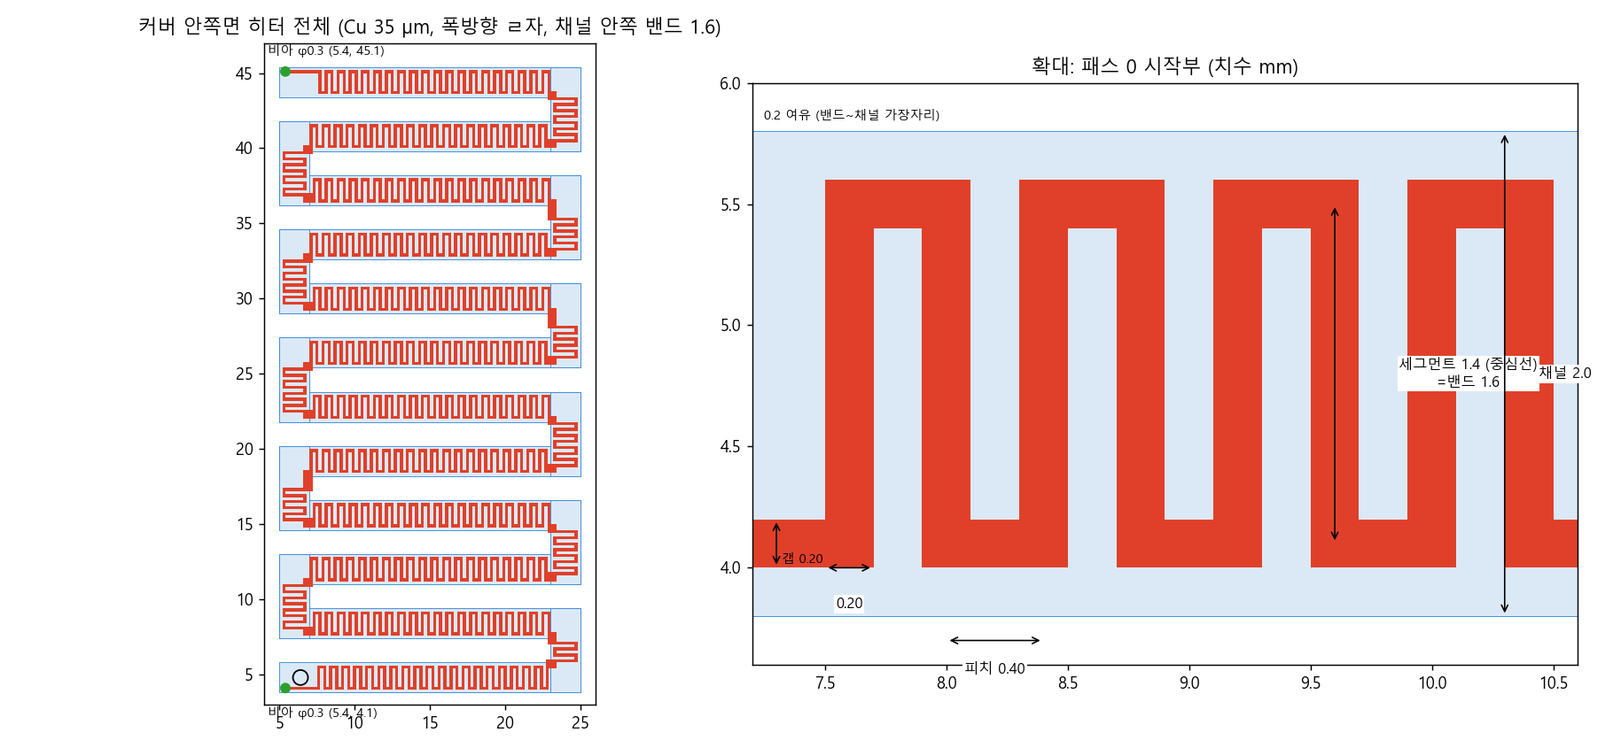
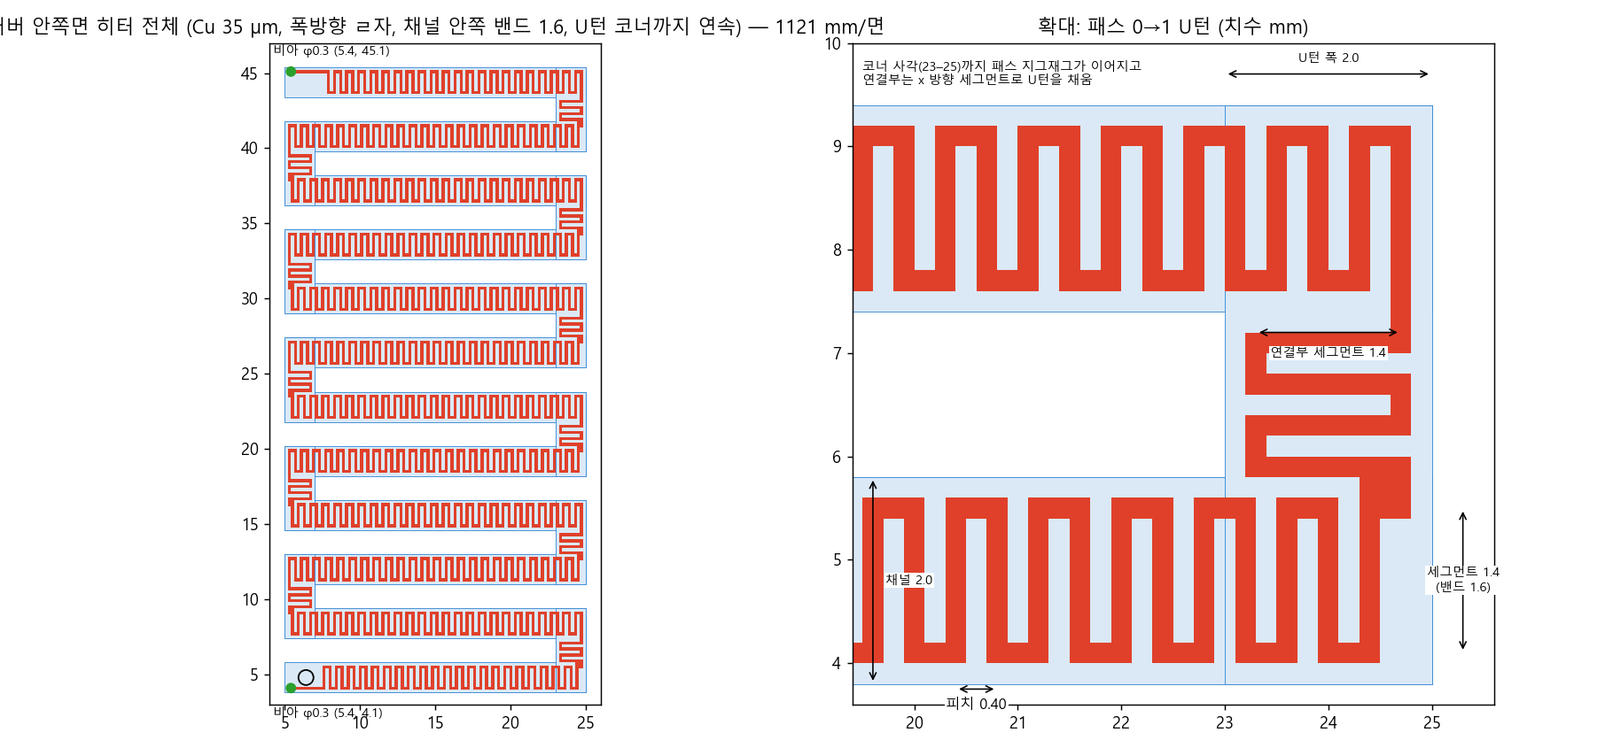
추력기: 히터 치수 그림 U턴 코너 채움 반영

diff --git a/public/metacube/thruster/index.html b/public/metacube/thruster/index.html
@@ -7,4 +7,4 @@ table{border-collapse:collapse;font-size:12.5px;background:#fff}th,td{border:1px
 .note{background:#fff6e8;border-left:4px solid #d98040;padding:9px 12px;font-size:13px;margin:12px 0;border-radius:0 4px 4px 0}.ok{background:#eef7ee;border-left:4px solid #3a8a3a}
 .vf{width:100%;height:760px;border:1px solid #cfd8ea;border-radius:4px;background:#fff}.two{display:grid;grid-template-columns:1fr 1fr;gap:12px}@media(max-width:900px){.two{grid-template-columns:1fr}}
 ul{font-size:13.5px}li{margin:3px 0}.dl a{display:inline-block;margin:3px 6px 3px 0;padding:4px 10px;border:1px solid #b9c6dc;border-radius:4px;background:#fff;color:#1F3864;text-decoration:none;font-size:12.5px}
-</style></head><body><div id="mcnav" style="position:sticky;top:0;z-index:9999;display:flex;gap:6px;align-items:center;background:#1F3864;padding:7px 14px;font-family:'Malgun Gothic',sans-serif"><span style="color:#fff;font-weight:700;font-size:13.5px;margin-right:8px">MetaCube</span><a href="/metacube/" style="color:#cfd8ea;border:1px solid #4a6293;border-radius:4px;padding:3px 12px;font-size:12.5px;text-decoration:none">전기체 3U CAD</a><a href="/metacube/barrel/" style="color:#cfd8ea;border:1px solid #4a6293;border-radius:4px;padding:3px 12px;font-size:12.5px;text-decoration:none">경통(카메라) 상세</a><a href="/metacube/thruster/" style="color:#1F3864;background:#fff;border-radius:4px;padding:3px 12px;font-size:12.5px;font-weight:700;text-decoration:none">추력기 (PCB 기화식)</a><a href="/metacube/downloads.html" style="color:#cfd8ea;border:1px solid #4a6293;border-radius:4px;padding:3px 12px;font-size:12.5px;text-decoration:none">STEP 다운로드</a><span style="margin-left:auto;display:flex;gap:10px;align-items:center;font-size:11.5px;color:#cfd8ea"><span>추력기 <b style="color:#fff">v0.4</b></span><span style="color:#9fb0d0">배포 2026-08-16 01:08 KST</span></span></div><div class="tabbar"><button id="tb-ov" onclick="showTab(&quot;ov&quot;)">개요</button><button id="tb-prop" onclick="showTab(&quot;prop&quot;)">추진제 선택</button><button id="tb-design" onclick="showTab(&quot;design&quot;)">설계·치수·3D</button><button id="tb-heater" onclick="showTab(&quot;heater&quot;)">히터·V→I·P·T</button><button id="tb-fea" onclick="showTab(&quot;fea&quot;)">3D 열해석</button><button id="tb-boil" onclick="showTab(&quot;boil&quot;)">채널 비등 지도</button><button id="tb-files" onclick="showTab(&quot;files&quot;)">EAGLE 파일</button><button id="tb-risk" onclick="showTab(&quot;risk&quot;)">미결·리스크</button></div><div class="wrap"><section class="tabpane on" id="sec-ov"><h1>PCB(FR-4) 냉매 기화식 마이크로추력기 — 설계·해석 종합</h1><p class="sub">R245fa 액체를 시린지펌프로 공급 → 다층 FR-4 ㄹ자 마이크로채널에서 Cu 35 μm 히터로 기화 → 노즐. 지상 시험 1 atm, 챔버 4.0 bar abs, 진공 환산 50 mN. 1차 = 단층(코어 1장) 실험체, 2차 = 같은 코어를 3층으로 접기. 갱신 2026-08-16 01:08 KST</p><div class="cards"><div class="card"><b>설계점</b><div class="n">50 mN · 25.6 W</div><p>진공 Isp 45.5 s(ε100) · ṁ 112 mg/s = 5.4 mL/min · 지상 Isp 24 s. 전력 = 현열 5.1 + 잠열 19.4 + 과열 1.1 W(+손실 1~2 W).</p></div><div class="card"><b>채널</b><div class="n">2.0 × 0.6 · 12패스 280 mm</div><p>코어 FR-4 0.6 관통슬롯(라우터 2.0), 리브 1.6, 보드 30×49.2. 벽 과열도 7.6 K · CHF 여유 15× · ΔP 3 kPa (길이 2× 보수).</p></div><div class="card"><b>히터</b><div class="n">ㄹ자 0.20/0.20 · 16.9 Ω</div><p>Cu 35 μm 폭방향 미앤더, 밴드 1.6(채널 안쪽), 면당 1121 mm 8.5 Ω, 전 면 직렬 하나(U턴 코너까지 연속). 30 W @ 24 V·1.2 A(파워서플라이 0~30 V), 건식 ≤10 V.</p></div><div class="card"><b>조립</b><div class="n">SMT 리플로우</div><p>솔더 랜드 1.0(리브 위+프레임), 부품 2종(코어 1 + 커버 2 동일, 뒤집어 사용), 리드 = 밀봉 안쪽 비아(솔더 충전, 가안), 정렬홀 φ2×3, 센서포트 9점.</p></div></div><div class="note ok"><b>탭으로 나눠 놓았습니다</b> — 위 탭을 누르면 해당 내용만 표시됩니다: 추진제 선택(56종 스크리닝) → 설계·치수·3D(단층/3층/커버 뷰어, EAGLE 미리보기) → 히터·V→I·P·T(예측표) → 3D 열해석(TH2·TH3) → 채널 비등 지도(정상·과도·애니메이션) → EAGLE 파일 → 미결·리스크. 주소에 #탭이름을 붙여 바로 열 수 있습니다(예: #boil).</div></section><section class="tabpane" id="sec-prop"><h2>1. 추진제 선택 (56종 스크리닝)</h2><p class="sub">챔버 4.0 bar · 과열 10 K · ε100 · η0.93 · 물성 CoolProp 7.2. 깔때기: 시린지펌프·저압탱크(20 °C 증기압 ≤ 1.5 bar) → PCB 온도 한계 65 °C에서 챔버 압력(MEOP) ≥ 3 bar → 불연 → 5종 → 규제(R11 CFC·R123 HCFC) 제외 → 3종 → ρ·Isp 1위 R245fa. 색 = 가연성, 모양 = 독성(○ A / ◇ B).</p><figure><img src="/metacube/thruster/img/propellant_selection.png" alt="propellant selection"><figcaption>① 저장 압력 vs ρ·Isp · ② ρ·Isp 순위(★ 창 안) · ③ 실현 창(저장압 × 65 °C MEOP) · ④ 전력/추력 vs ρ·Isp</figcaption></figure><h3>창 안 후보</h3><div class="tw"><table><tr><th>추진제</th><th>P_sat 20 °C [bar]</th><th>P_sat 65 °C = MEOP [bar]</th><th>ρ 20 °C</th><th>T_sat 4 bar [°C]</th><th>Isp 진공 [s]</th><th>ρ·Isp [g·s/cm³]</th><th>W/mN</th><th>50 mN 전력 [W]</th><th>ASHRAE 34</th><th>GWP</th></tr><tr><td>R11</td><td>0.89</td><td>3.6</td><td>1488</td><td>69.2</td><td>43.0</td><td>63.9</td><td>0.51</td><td>25</td><td>A1</td><td>4660</td></tr><tr><td>R123</td><td>0.76</td><td>3.3</td><td>1477</td><td>72.2</td><td>42.1</td><td>62.2</td><td>0.51</td><td>26</td><td>B1</td><td>77</td></tr><tr><td>R245fa</td><td>1.23</td><td>5.3</td><td>1352</td><td>55.0</td><td>44.3</td><td>59.9</td><td>0.53</td><td>26</td><td>B1</td><td>858</td></tr><tr><td>R1234ze(Z)</td><td>1.49</td><td>5.9</td><td>1238</td><td>50.8</td><td>46.6</td><td>57.6</td><td>0.52</td><td>26</td><td>A2L</td><td>1</td></tr><tr><td>R1233zd(E)</td><td>1.08</td><td>4.5</td><td>1275</td><td>60.8</td><td>44.8</td><td>57.2</td><td>0.53</td><td>26</td><td>A1</td><td>1</td></tr></table></div><div class="note">R245fa: ρ·Isp 59.9(창 안 1위, N₂ 콜드가스의 4배, Xe 200 bar와 동급이면서 탱크 1.2 bar), 65 °C MEOP 5.3 bar, 0.53 W/mN(물 VLM의 1/5), 4 bar 운전 55 °C(FR-4 친화). 약점 = ASHRAE B1(고독성 등급)·GWP 858 → 무독 최우선이면 <b>R1233zd(E)</b>(A1, GWP 1, 성능 −4 %)를 같은 설계로. GWP·등급은 투고 전 원출처 재확인.</div></section><section class="tabpane" id="sec-design"><h2>2. 설계·치수·3D 모델</h2><p class="sub">부품 3종만: 커버(동일 2, 뒤집어 상·하) · 코어(단층 1 / 3층 3) · 중간판(3층만, 동일 2, 4층 보드 양면 히터+매설 리드). 보드 y-대칭이라 커버를 뒤집으면 포트 홀이 입구 ↔ 노즐 자리로 감. 뷰어: 범례 클릭 토글 · 드래그 회전 · 휠 줌.</p><h3>2.0 핵심 치수 표 (mm)</h3><div class="tw"><table><tr><th>항목</th><th>값</th></tr><tr><td colspan="2" style="background:#e9eef6;font-weight:700;color:#1F3864">§ 보드 / 적층</td></tr><tr><td>보드 외형</td><td style="text-align:left">30.0 × 49.2 mm (단층) · 30.0 × 20.4 (3층, 중간판은 좌측 탭 +6)</td></tr><tr><td>원점</td><td style="text-align:left">좌하 (0, 0), 단위 mm, 보드 y-대칭</td></tr><tr><td>적층 두께</td><td style="text-align:left">단층 1.67 (커버 0.4 + Cu 0.035 + 솔더 0.10 + 코어 0.6 + 솔더 0.10 + Cu 0.035 + 커버 0.4) · 3층 4.21</td></tr><tr><td>부품</td><td style="text-align:left">커버 ×2 동일(뒤집기) · 코어 ×1(단층) / ×3(3층) · 중간판 ×2 동일(3층, 4층 보드)</td></tr><tr><td>정렬 홀</td><td style="text-align:left">φ2.0 ×3 (28, 2) (28, 47.2) (2, 24.6) — y-대칭·x-비대칭</td></tr><tr><td colspan="2" style="background:#e9eef6;font-weight:700;color:#1F3864">§ 코어 (FR-4 0.6, 2L)</td></tr><tr><td>채널 슬롯</td><td style="text-align:left">폭 2.0 관통(라우터 Ø2.0 중심선), 깊이 = 코어 0.6</td></tr><tr><td>직선부</td><td style="text-align:left">x 5.0 – 25.0 (길이 20.0), 12패스(단층) / 4패스(3층 코어)</td></tr><tr><td>패스 중심 y</td><td style="text-align:left">4.8 + 3.6·i (i = 0…11) → 4.8 … 44.4</td></tr><tr><td>피치 / 리브</td><td style="text-align:left">3.6 / 1.6</td></tr><tr><td>U턴</td><td style="text-align:left">폭 2.0, 짝수 패스 끝 x 23–25 / 홀수 패스 끝 x 5–7</td></tr><tr><td>경로 길이</td><td style="text-align:left">~280 mm (중심선 256)</td></tr><tr><td>솔더 랜드</td><td style="text-align:left">폭 1.0, 리브 중심선 y = 6.6 + 3.6·i (i = 0…10) + 외곽 프레임(안쪽 x 4.7/25.3, y 3.5/45.7), Top·Bottom 동일</td></tr><tr><td colspan="2" style="background:#e9eef6;font-weight:700;color:#1F3864">§ 커버 (FR-4 0.4, 2L, ×2 동일)</td></tr><tr><td>동박</td><td style="text-align:left">Cu 35 μm: Top = 안쪽면(히터+랜드), Bottom = 바깥면(패드), ENIG, 솔더마스크 없음</td></tr><tr><td>히터 밴드</td><td style="text-align:left">1.6 (채널 2.0 안쪽 각 0.2), 세그먼트 중심선 패스 y ± 0.7</td></tr><tr><td>히터 선폭 / 갭 / 피치</td><td style="text-align:left">0.20 / 0.20 / 0.40</td></tr><tr><td>히터 x 범위</td><td style="text-align:left">패스 0: 7.6 → 24.7 · 패스 1–10: 5.3 ↔ 24.7(U턴 코너 사각 포함) · 패스 11: 24.7 → 7.4 · U턴 연결부 [xc+0.3, xc+1.7]</td></tr><tr><td>히터 길이 / 저항</td><td style="text-align:left">1121 mm/면 · 5,603 sq · 8.5 Ω/면 (ρs 1.40 mΩ/sq + 0.6) · 전 면 직렬 16.9 Ω</td></tr><tr><td>리드 비아</td><td style="text-align:left">φ0.3 드릴 / 패드 0.7 · (5.4, 4.1) 시작 · (5.4, 45.1) 끝 · 리플로우 때 솔더 충전</td></tr><tr><td>바깥면 패드</td><td style="text-align:left">2.4 × 1.2 중심 (1.8, 4.8)·(1.8, 44.4), 인출선 0.5</td></tr><tr><td>포트 홀</td><td style="text-align:left">φ1.0 (6.4, 4.8) — 하부 커버 = 입구, 뒤집으면 (6.4, 44.4) = 노즐 인서트</td></tr><tr><td>센서 포트</td><td style="text-align:left">φ0.8 블라인드 깊이 0.3(바깥면에서), x 8·15·22 × y 8.4·24.6·40.8</td></tr><tr><td colspan="2" style="background:#e9eef6;font-weight:700;color:#1F3864">§ 중간판 (3층, FR-4 0.4, 4L, ×2 동일)</td></tr><tr><td>히터</td><td style="text-align:left">위·아래 면 동일 패턴(코어당 4패스, 355 mm/면 3.1 Ω), 비아 4개(시작 ±0.7·끝 ±0.7, 면별로 다른 비아)</td></tr><tr><td>매설 리드</td><td style="text-align:left">L2로 밀봉 링 아래 통과 → 좌측 탭 패드 (−4.3, 4.8)·(−4.3, 15.6)</td></tr><tr><td>층간 유체 비아</td><td style="text-align:left">φ1.2 (6.4, 15.6) — 뒤집으면 (6.4, 4.8)</td></tr><tr><td colspan="2" style="background:#e9eef6;font-weight:700;color:#1F3864">§ 노즐·유량</td></tr><tr><td>노즐</td><td style="text-align:left">목 φ0.30, 지상 ε≈1.4 정합 / 진공 ε 100 교체</td></tr><tr><td>설계 유량 / 압력</td><td style="text-align:left">5.4 mL/min (112 mg/s) · 챔버 4.0 bar abs · 히터 30 W @ 24 V</td></tr></table></div><h3>2.0b 층별 2D 도면 (치수 표기)</h3><div class="two"><figure><img src="/metacube/thruster/img/drw_core.png" alt="core"><figcaption>코어 — 관통 슬롯 + 양면 랜드</figcaption></figure><figure><img src="/metacube/thruster/img/drw_cover_outer.png" alt="cover outer"><figcaption>커버 바깥면 — 패드·인출선·센서 포트</figcaption></figure></div><figure><img src="/metacube/thruster/img/drw_cover_inner.png" alt="cover inner"><figcaption>커버 안쪽면 — 히터 ㄹ자 + 랜드 (확대 인셋에 선폭·갭·피치·밴드·여유)</figcaption></figure><div class="two"><figure><img src="/metacube/thruster/img/drw_stack.png" alt="stack"><figcaption>적층 단면 — 단층 1.67 / 3층 4.21 mm</figcaption></figure><figure><img src="/metacube/thruster/img/drw_midplate.png" alt="midplate"><figcaption>중간판(3층 전용) — 양면 히터·비아 4·매설 리드·탭·층간 유체 비아</figcaption></figure></div><h3>2.1 단층(1코어) 조립 — 1차 실험체</h3><iframe class="vf" data-src="/metacube/thruster/viewer/v1.html"></iframe><h3>2.2 3층(3코어 접기) 조립 — 2차</h3><iframe class="vf" data-src="/metacube/thruster/viewer/v3.html"></iframe><h3>2.3 커버 히터 단독 (도면용, 옆에 치수표)</h3><iframe class="vf" data-src="/metacube/thruster/viewer/vc.html"></iframe><h3>2.4 히터 치수</h3><figure><img src="/metacube/thruster/img/pcb_heater_zigzag_dims.png" alt="heater dims"><figcaption>Cu 35 μm 폭방향 ㄹ자: 선폭 0.20 / 갭 0.20 / 피치 0.40 · 세그먼트 1.6(밴드) · 채널 2.0 안쪽 0.2 여유 · 패스 0 시작 x 7.6 / 패스 11 끝 x 7.4 · U턴 코너 사각까지 연속 · 비아 (5.4, 4.1)·(5.4, 45.1) · 바깥면 패드 (1.8, 4.8)·(1.8, 44.4)</figcaption></figure><h3>2.5 EAGLE 도면 미리보기</h3><figure><img src="/metacube/thruster/img/eagle_v03_preview.png" alt="eagle"><figcaption>core_v03.brd(슬롯 = Milling 46 폭 2.0 중심선, 랜드 Top+Bottom) · cover_v03.brd(Top = 안쪽면 히터+랜드, Bottom = 바깥면 패드, 비아, 포트 φ1.0). 같은 커버 부품이 상·하 공용.</figcaption></figure></section><section class="tabpane" id="sec-heater"><h2>3. 히터 설계와 전압 → 전류·전력·온도 예측</h2><p class="sub">저항 모델: 면저항 1.40 mΩ/sq(벌크의 2.9배 — 팀 히터 #2 0.152×2720 mm 26.3 Ω와 CSTE 0.3×282.5 mm 2.51 Ω 공통 피팅) + 리드 0.6 Ω/면, TCR 0.393 %/K. 3D 전기-열(전압 구동, 요소별 ρ(T), Cooper 비등, 에칭 Cu 패턴)로 계산. 히터는 단층/3층 모두 <b>하나</b>(전 면 직렬, 총 ~2240 mm) → 운전점 동일.</p><figure><img src="/metacube/thruster/img/figZ_VIP_T.png" alt="V-I-P-T"><figcaption>전압 → 보드 발열 · 전류 · 최고 온도 (직렬, 파워서플라이 0~30 V). 유체 운전은 비등이 63~65 °C에 묶어 P ∝ V², 건식은 R(T)로 전류 포화.</figcaption></figure><div class="tw"><table><tr><th>조건</th><th>I [A]</th><th>P 보드 [W]</th><th>P 리드 [W]</th><th>R(T) [Ω]</th><th>T_max [°C]</th><th>밴드 평균</th><th>외판 센서 범위</th><th>바닥 과열도 [K]</th></tr><tr><td>유체 15 V</td><td>0.77</td><td>10.9</td><td>0.72</td><td>19.39</td><td>60.6</td><td>60.6</td><td>56.6–59.3</td><td>5.2</td></tr><tr><td>유체 20 V</td><td>1.03</td><td>19.3</td><td>1.27</td><td>19.47</td><td>62.0</td><td>61.9</td><td>57.5–60.5</td><td>6.5</td></tr><tr><td>유체 24 V</td><td>1.23</td><td>27.7</td><td>1.81</td><td>19.53</td><td>63.0</td><td>62.9</td><td>58.1–61.4</td><td>7.4</td></tr><tr><td>유체 27 V</td><td>1.38</td><td>35.0</td><td>2.28</td><td>19.58</td><td>63.7</td><td>63.6</td><td>58.5–62.0</td><td>8.0</td></tr><tr><td>유체 30 V</td><td>1.53</td><td>43.1</td><td>2.81</td><td>19.62</td><td>64.3</td><td>64.3</td><td>58.9–62.6</td><td>8.6</td></tr><tr><td>건식 6 V</td><td>0.31</td><td>1.8</td><td>0.12</td><td>19.08</td><td>57.5</td><td>55.4</td><td>52.4–55.1</td><td>—</td></tr><tr><td>건식 8 V</td><td>0.39</td><td>2.9</td><td>0.18</td><td>20.45</td><td>81.3</td><td>77.7</td><td>72.6–77.3</td><td>—</td></tr><tr><td>건식 10 V</td><td>0.45</td><td>4.3</td><td>0.25</td><td>22.02</td><td>108.5</td><td>103.2</td><td>95.5–102.7</td><td>—</td></tr><tr><td>건식 12 V</td><td>0.51</td><td>5.8</td><td>0.31</td><td>23.73</td><td>138.3</td><td>131.0</td><td>120.5–130.5</td><td>—</td></tr></table></div><div class="note ok"><b>운전 규칙</b> P_필요 ≈ 4.75 W × Q[mL/min] + 1.5 W → 5.4 mL/min = 24 V(28 W) · 8 mL/min = 28 V · 9 mL/min = 30 V. 건식 통전은 10 V(4.3 W, 108 °C) 이하. 30 V(43 W)는 유량을 같이 올릴 때만.</div><div class="note"><b>가장 큰 불확실성</b> = 면저항(×3 범위). 커버 보드 4장 먼저 발주 → 위트니스 쿠폰 4선 측정(ρs·R_fix·TCR) → 예측표 갱신 → 풀스택 발주 순서 권장.</div></section><section class="tabpane" id="sec-fea"><h2>4. 3D 열해석 (CalculiX)</h2><h3>4.1 판 모델 TH2 — 단층 30×49×1.54, 30 W, 에칭 Cu 패턴</h3><div class="cards"><div class="card"><b>T_max</b><div class="n">63.3 °C</div><p>히터 밴드. Cu 상/하 대칭(0.00 K). TH1 3코어 65.1보다 낮음.</p></div><div class="card"><b>열배분</b><div class="n">46 / 46 / 7 %</div><p>바닥 / 천장 / 리브 측벽. 벽 과열도 바닥=천장 7.6 K, 측벽 3.1 K.</p></div><div class="card"><b>외피 손실</b><div class="n">1.2 W</div><p>96 % 폐합. 외판 센서 9점 59.6~62.3 °C(채널 위 vs 리브 위 ~2.5 K).</p></div><div class="card"><b>콜드스타트</b><div class="n">2.9–7.8 s</div><p>정상 ±2 K 진입(중간/입구/출구). 건식 6 W: 239/142 °C(h 10/20) → 36/20 K/W.</p></div></div><div class="two"><figure><img src="/metacube/thruster/img/figS1_core_midplane_A.png" alt="S1"><figcaption>코어 중간면 / 하부 Cu 히터면 온도 (S_A 30 W)</figcaption></figure><figure><img src="/metacube/thruster/img/figS1b_cu_pattern_compare.png" alt="S1b"><figcaption>연속 Cu 가정 vs 에칭 패턴 — 에칭 패턴이 정본(밴드 > 리브 > 여백)</figcaption></figure></div><div class="two"><figure><img src="/metacube/thruster/img/figS3_dTwall_path.png" alt="S3"><figcaption>벽 과열도 vs 채널 경로 — 경로 전체 평탄, U턴 봉우리 없음(히터가 채널 안쪽)</figcaption></figure><figure><img src="/metacube/thruster/img/figS4_transient_D.png" alt="S4"><figcaption>콜드스타트 (22 °C → 30 W ON)</figcaption></figure></div><h3>4.2 단위셀 TH3 — 실제 ㄹ자 트레이스 0.20/0.20 해상 (격자 0.05 mm)</h3><figure><img src="/metacube/thruster/img/figU0_where_is_what_temperature.png" alt="U0"><figcaption><b>어디가 몇 도인가</b> — 유체 55.0(포화) → 히터 트레이스 63.4(과열도 8.4 K, 구리 안 등온 0.07 K) → 트레이스 사이 FR-4 갭 61.0 → 커버 바깥면(센서) 60.4 → 리브 옆벽 57.9. 열 배분: 트레이스 상면 53 / 옆면 19 / FR-4 갭 26 / 리브 2 %. 스미어 밴드 모델 대비 +0.2~0.7 K → 핫스팟 없음, 예측표 유효.</figcaption></figure><div class="two"><figure><img src="/metacube/thruster/img/figU1_cu_plane_topview.png" alt="U1"><figcaption>히터면 상면도 — 트레이스/갭 온도 (U1 정격 · U2 2배 · U3 0.15/0.15)</figcaption></figure><figure><img src="/metacube/thruster/img/figU3_superheat_split.png" alt="U3"><figcaption>과열도와 열 배분</figcaption></figure></div><div class="note">한계(정직하게): Cooper 상관식 ±2~4 K, 유체 55 °C 등온 싱크(비등 구간에만 맞음 — 출구 증기 구간은 아래 5절), 축방향 변화 없음, 히터 균일 발열(링크 전류 집중 미반영).</div></section><section class="tabpane" id="sec-boil"><h2>5. 채널을 따라 어디서 끓고 어디서 다 기체가 되나 (정상 · 과도)</h2><p class="sub">1D 축방향 2상 모델: 벽 노드별 열용량 + 준정상 유체 엔탈피 행진, 액체 층류 → Cooper 핵비등 → 부분건조 → 증기 Dittus-Boelter(≈470 W/m²K), 노즐 압력 결합. <b>건도 x</b> = 유체 질량 중 증기 비율(0 액체 → 1 완전 기화).</p><figure><img src="/metacube/thruster/img/pcb_channel_serpentine_steady.png" alt="serpentine"><figcaption>정상 30 W — 실제 12패스 채널 위 벽 온도 · 유체 온도 · 건도. 비등 시작 입구 직후(과냉 비등), 유체 포화 52 mm, 완전 기화 235 mm(84 %), 이후 과열 증기.</figcaption></figure><figure><img src="/metacube/thruster/img/pcb_channel_serpentine.gif" alt="gif"><figcaption>콜드스타트 애니메이션 (0 → 25 s): 압력 1.2 → 4.2 bar, 출구 건도 0.4 → 1(6.5 s), 완전 기화점이 출구에서 235 mm로 후퇴.</figcaption></figure><div class="two"><figure><img src="/metacube/thruster/img/pcb_channel_boiling_steady.png" alt="steady"><figcaption>경로 그래프: 벽/유체 온도 · 건도 · 열유속</figcaption></figure><figure><img src="/metacube/thruster/img/pcb_channel_boiling_transient.png" alt="transient"><figcaption>과도: 전선 이동·압력 · 시공간 지도 · 출구 상태</figcaption></figure></div><h3>전력·히터 분포 비교 (정상)</h3><figure><img src="/metacube/thruster/img/pcb_channel_boiling_compare.png" alt="cmp"></figure><div class="tw"><table><tr><th>케이스</th><th>P0 [bar]</th><th>T_sat</th><th>비등 시작 [mm]</th><th>완전 기화 [mm]</th><th>출구 과열도 [K]</th><th>출구 T [°C]</th><th>벽 최고 [°C]</th></tr><tr><td>30 W 균일</td><td>4.18</td><td>56.5</td><td>1</td><td>235</td><td>39.8</td><td>96.4</td><td>137.5</td></tr><tr><td>27.5 W 균일 (요구량 정합)</td><td>4.06</td><td>55.5</td><td>1</td><td>255</td><td>19.7</td><td>75.2</td><td>113.3</td></tr><tr><td>30 W, 출구 45 mm 절반 밀도</td><td>4.18</td><td>56.5</td><td>1</td><td>215</td><td>39.5</td><td>96.0</td><td>117.3</td></tr></table></div><div class="note"><b>설계 시사점</b> — 균일 히터 하나는 비등 구간(0~235 mm)에선 벽 63 °C로 완벽하지만, 완전 기화 이후 마지막 30~45 mm는 벽 110~140 °C(증기 h가 비등의 1/8). 선택: ① 전압을 요구량에 맞춰 27~28 W 운전(1차 권장, 113 °C) ② 출구 45 mm ㄹ자 피치 절반 밀도(117 °C) ③ 둘 다(~95 °C). 실측에서 노즐 쪽 외판 센서가 30~50 K 높게 나오는 것이 "완전 기화" 지표.</div><figure><img src="/metacube/thruster/img/pcb_channel_boiling_snapshots.png" alt="snapshots"><figcaption>스냅샷 t = 0.5 … 25 s</figcaption></figure></section><section class="tabpane" id="sec-files"><h2>6. EAGLE 도면·스크립트</h2><div class="dl"><a href="/metacube/thruster/eagle/core_v03.brd" download>core_v03.brd (8 KB)</a><a href="/metacube/thruster/eagle/cover_v03.brd" download>cover_v03.brd (89 KB)</a><a href="/metacube/thruster/eagle/heater_zigzag.scr" download>heater_zigzag.scr (22 KB)</a><a href="/metacube/thruster/eagle/heater_zigzag_points.csv" download>heater_zigzag_points.csv (20 KB)</a><a href="/metacube/thruster/eagle/README.md" download>README.md (4 KB)</a></div><p class="sub">core_v03.brd(코어 ×1) · cover_v03.brd(커버 ×2 동일 부품) · heater_zigzag.scr(EAGLE에서 SCRIPT 실행 → 히터·비아·패드·외형 자동 작도) · 좌표 CSV. XML v9.6.2 헤더(7.x는 version만 수정). 주문 규격: 솔더마스크 없음, ENIG, 1 oz, 코어 0.6T/커버 0.4T, 슬롯 라우팅 ±0.2, NPTH ±0.05.</p></section><section class="tabpane" id="sec-risk"><h2>7. 미결·리스크 (발주 전 확인)</h2><ul><li>🔴 <b>면저항 1.40 mΩ/sq</b> — 팀 히터 2개 저항값에서 피팅(물리 설명 없음, ×3 범위). 위트니스 쿠폰 4선 측정으로 확정 후 선폭 최종화.</li><li>🔴 <b>히터 리드 밀봉 관통</b> — 밀봉 안쪽 비아 + 리플로우 솔더 충전은 가안. 팀의 No.5/6 방식 확인 또는 커버 보드로 누설 시험 먼저.</li><li>🔴 <b>출구 증기 구간 벽 온도 110~140 °C</b> — 5절. 운전 전력 정합 또는 피치 그레이딩으로 관리.</li><li>🟡 3층 중간판은 4층 보드(양면 히터 + 매설 리드) 필요 — 2층으로 하면 밀봉 링을 같은 면에서 가로질러 누설. 1차 단층에서 커버 비아 방식부터 검증.</li><li>🟡 Cooper ±2~4 K, 증기 h ±30 %(벽 최고 ±15 K), 건식 h_out 10↔20, R_fix 0.6 가정, 히터 #2 실측(TCR 역산 84 vs 표면 58 °C) 미해결 → 건식 V–I–T 캘리브레이션 실험으로 확정.</li><li>🟢 채널 치수(공정 제약)·길이 여유·설계점·업체 규격 적합성·단층 대칭 열배분·콜드스타트 수 초·추진제 선택 근거.</li></ul><h2>순서</h2><ol style="font-size:13.5px"><li>커버 보드 4장(히터+쿠폰+비아) 발주 → 4선 저항·건식 V–I–T·비아 충전 누설 시험</li><li>ρs·K/W 확정, 예측표 갱신, 출구 증기 구간 3D 결합</li><li>코어 포함 풀스택 발주 → 리플로우 조립 → 4 bar g 내압 → 유체 파라메트릭(유량 × 전압 → 출구 상태, η_th, 압력–유량, 자세, 콜드스타트)</li><li>3층: 같은 점 재현 + 자세 3방향 + 콜드스타트 비교</li></ol></section><div id="mccmt" data-page="thruster"></div><script src="/metacube/mc-comments.js"></script><script>function showTab(k){document.querySelectorAll(".tabpane").forEach(function(e){e.classList.toggle("on",e.id==="sec-"+k)});document.querySelectorAll(".tabbar button").forEach(function(b){b.classList.toggle("on",b.id==="tb-"+k)});document.querySelectorAll("#sec-"+k+" iframe[data-src]").forEach(function(f){if(!f.src){f.src=f.getAttribute("data-src")}});if(history.replaceState){history.replaceState(null,"","#"+k)}window.scrollTo(0,0)}(function(){var k=(location.hash||"#ov").slice(1);if(!document.getElementById("sec-"+k)){k="ov"}showTab(k);window.addEventListener("hashchange",function(){var h=location.hash.slice(1);if(document.getElementById("sec-"+h))showTab(h)})})();</script><p class="sub" style="margin-top:30px">코드·데이터 정본: coldgas-thruster/design (propellant_selection.py · pcb_stack_viewer.py · pcb_cover_heater_viewer.py · pcb_heater_zigzag.py · pcb_channel_boiling_map.py · eagle/) · fea/pcb (pcb_lib_single.py · pcb_electro.py · pcb_unitcell.py · PCB_TH2/TH3 보고서). 페이지 생성기 design/site_thruster_page.py</p></div></body></html>
+</style></head><body><div id="mcnav" style="position:sticky;top:0;z-index:9999;display:flex;gap:6px;align-items:center;background:#1F3864;padding:7px 14px;font-family:'Malgun Gothic',sans-serif"><span style="color:#fff;font-weight:700;font-size:13.5px;margin-right:8px">MetaCube</span><a href="/metacube/" style="color:#cfd8ea;border:1px solid #4a6293;border-radius:4px;padding:3px 12px;font-size:12.5px;text-decoration:none">전기체 3U CAD</a><a href="/metacube/barrel/" style="color:#cfd8ea;border:1px solid #4a6293;border-radius:4px;padding:3px 12px;font-size:12.5px;text-decoration:none">경통(카메라) 상세</a><a href="/metacube/thruster/" style="color:#1F3864;background:#fff;border-radius:4px;padding:3px 12px;font-size:12.5px;font-weight:700;text-decoration:none">추력기 (PCB 기화식)</a><a href="/metacube/downloads.html" style="color:#cfd8ea;border:1px solid #4a6293;border-radius:4px;padding:3px 12px;font-size:12.5px;text-decoration:none">STEP 다운로드</a><span style="margin-left:auto;display:flex;gap:10px;align-items:center;font-size:11.5px;color:#cfd8ea"><span>추력기 <b style="color:#fff">v0.4</b></span><span style="color:#9fb0d0">배포 2026-08-16 01:10 KST</span></span></div><div class="tabbar"><button id="tb-ov" onclick="showTab(&quot;ov&quot;)">개요</button><button id="tb-prop" onclick="showTab(&quot;prop&quot;)">추진제 선택</button><button id="tb-design" onclick="showTab(&quot;design&quot;)">설계·치수·3D</button><button id="tb-heater" onclick="showTab(&quot;heater&quot;)">히터·V→I·P·T</button><button id="tb-fea" onclick="showTab(&quot;fea&quot;)">3D 열해석</button><button id="tb-boil" onclick="showTab(&quot;boil&quot;)">채널 비등 지도</button><button id="tb-files" onclick="showTab(&quot;files&quot;)">EAGLE 파일</button><button id="tb-risk" onclick="showTab(&quot;risk&quot;)">미결·리스크</button></div><div class="wrap"><section class="tabpane on" id="sec-ov"><h1>PCB(FR-4) 냉매 기화식 마이크로추력기 — 설계·해석 종합</h1><p class="sub">R245fa 액체를 시린지펌프로 공급 → 다층 FR-4 ㄹ자 마이크로채널에서 Cu 35 μm 히터로 기화 → 노즐. 지상 시험 1 atm, 챔버 4.0 bar abs, 진공 환산 50 mN. 1차 = 단층(코어 1장) 실험체, 2차 = 같은 코어를 3층으로 접기. 갱신 2026-08-16 01:10 KST</p><div class="cards"><div class="card"><b>설계점</b><div class="n">50 mN · 25.6 W</div><p>진공 Isp 45.5 s(ε100) · ṁ 112 mg/s = 5.4 mL/min · 지상 Isp 24 s. 전력 = 현열 5.1 + 잠열 19.4 + 과열 1.1 W(+손실 1~2 W).</p></div><div class="card"><b>채널</b><div class="n">2.0 × 0.6 · 12패스 280 mm</div><p>코어 FR-4 0.6 관통슬롯(라우터 2.0), 리브 1.6, 보드 30×49.2. 벽 과열도 7.6 K · CHF 여유 15× · ΔP 3 kPa (길이 2× 보수).</p></div><div class="card"><b>히터</b><div class="n">ㄹ자 0.20/0.20 · 16.9 Ω</div><p>Cu 35 μm 폭방향 미앤더, 밴드 1.6(채널 안쪽), 면당 1121 mm 8.5 Ω, 전 면 직렬 하나(U턴 코너까지 연속). 30 W @ 24 V·1.2 A(파워서플라이 0~30 V), 건식 ≤10 V.</p></div><div class="card"><b>조립</b><div class="n">SMT 리플로우</div><p>솔더 랜드 1.0(리브 위+프레임), 부품 2종(코어 1 + 커버 2 동일, 뒤집어 사용), 리드 = 밀봉 안쪽 비아(솔더 충전, 가안), 정렬홀 φ2×3, 센서포트 9점.</p></div></div><div class="note ok"><b>탭으로 나눠 놓았습니다</b> — 위 탭을 누르면 해당 내용만 표시됩니다: 추진제 선택(56종 스크리닝) → 설계·치수·3D(단층/3층/커버 뷰어, EAGLE 미리보기) → 히터·V→I·P·T(예측표) → 3D 열해석(TH2·TH3) → 채널 비등 지도(정상·과도·애니메이션) → EAGLE 파일 → 미결·리스크. 주소에 #탭이름을 붙여 바로 열 수 있습니다(예: #boil).</div></section><section class="tabpane" id="sec-prop"><h2>1. 추진제 선택 (56종 스크리닝)</h2><p class="sub">챔버 4.0 bar · 과열 10 K · ε100 · η0.93 · 물성 CoolProp 7.2. 깔때기: 시린지펌프·저압탱크(20 °C 증기압 ≤ 1.5 bar) → PCB 온도 한계 65 °C에서 챔버 압력(MEOP) ≥ 3 bar → 불연 → 5종 → 규제(R11 CFC·R123 HCFC) 제외 → 3종 → ρ·Isp 1위 R245fa. 색 = 가연성, 모양 = 독성(○ A / ◇ B).</p><figure><img src="/metacube/thruster/img/propellant_selection.png" alt="propellant selection"><figcaption>① 저장 압력 vs ρ·Isp · ② ρ·Isp 순위(★ 창 안) · ③ 실현 창(저장압 × 65 °C MEOP) · ④ 전력/추력 vs ρ·Isp</figcaption></figure><h3>창 안 후보</h3><div class="tw"><table><tr><th>추진제</th><th>P_sat 20 °C [bar]</th><th>P_sat 65 °C = MEOP [bar]</th><th>ρ 20 °C</th><th>T_sat 4 bar [°C]</th><th>Isp 진공 [s]</th><th>ρ·Isp [g·s/cm³]</th><th>W/mN</th><th>50 mN 전력 [W]</th><th>ASHRAE 34</th><th>GWP</th></tr><tr><td>R11</td><td>0.89</td><td>3.6</td><td>1488</td><td>69.2</td><td>43.0</td><td>63.9</td><td>0.51</td><td>25</td><td>A1</td><td>4660</td></tr><tr><td>R123</td><td>0.76</td><td>3.3</td><td>1477</td><td>72.2</td><td>42.1</td><td>62.2</td><td>0.51</td><td>26</td><td>B1</td><td>77</td></tr><tr><td>R245fa</td><td>1.23</td><td>5.3</td><td>1352</td><td>55.0</td><td>44.3</td><td>59.9</td><td>0.53</td><td>26</td><td>B1</td><td>858</td></tr><tr><td>R1234ze(Z)</td><td>1.49</td><td>5.9</td><td>1238</td><td>50.8</td><td>46.6</td><td>57.6</td><td>0.52</td><td>26</td><td>A2L</td><td>1</td></tr><tr><td>R1233zd(E)</td><td>1.08</td><td>4.5</td><td>1275</td><td>60.8</td><td>44.8</td><td>57.2</td><td>0.53</td><td>26</td><td>A1</td><td>1</td></tr></table></div><div class="note">R245fa: ρ·Isp 59.9(창 안 1위, N₂ 콜드가스의 4배, Xe 200 bar와 동급이면서 탱크 1.2 bar), 65 °C MEOP 5.3 bar, 0.53 W/mN(물 VLM의 1/5), 4 bar 운전 55 °C(FR-4 친화). 약점 = ASHRAE B1(고독성 등급)·GWP 858 → 무독 최우선이면 <b>R1233zd(E)</b>(A1, GWP 1, 성능 −4 %)를 같은 설계로. GWP·등급은 투고 전 원출처 재확인.</div></section><section class="tabpane" id="sec-design"><h2>2. 설계·치수·3D 모델</h2><p class="sub">부품 3종만: 커버(동일 2, 뒤집어 상·하) · 코어(단층 1 / 3층 3) · 중간판(3층만, 동일 2, 4층 보드 양면 히터+매설 리드). 보드 y-대칭이라 커버를 뒤집으면 포트 홀이 입구 ↔ 노즐 자리로 감. 뷰어: 범례 클릭 토글 · 드래그 회전 · 휠 줌.</p><h3>2.0 핵심 치수 표 (mm)</h3><div class="tw"><table><tr><th>항목</th><th>값</th></tr><tr><td colspan="2" style="background:#e9eef6;font-weight:700;color:#1F3864">§ 보드 / 적층</td></tr><tr><td>보드 외형</td><td style="text-align:left">30.0 × 49.2 mm (단층) · 30.0 × 20.4 (3층, 중간판은 좌측 탭 +6)</td></tr><tr><td>원점</td><td style="text-align:left">좌하 (0, 0), 단위 mm, 보드 y-대칭</td></tr><tr><td>적층 두께</td><td style="text-align:left">단층 1.67 (커버 0.4 + Cu 0.035 + 솔더 0.10 + 코어 0.6 + 솔더 0.10 + Cu 0.035 + 커버 0.4) · 3층 4.21</td></tr><tr><td>부품</td><td style="text-align:left">커버 ×2 동일(뒤집기) · 코어 ×1(단층) / ×3(3층) · 중간판 ×2 동일(3층, 4층 보드)</td></tr><tr><td>정렬 홀</td><td style="text-align:left">φ2.0 ×3 (28, 2) (28, 47.2) (2, 24.6) — y-대칭·x-비대칭</td></tr><tr><td colspan="2" style="background:#e9eef6;font-weight:700;color:#1F3864">§ 코어 (FR-4 0.6, 2L)</td></tr><tr><td>채널 슬롯</td><td style="text-align:left">폭 2.0 관통(라우터 Ø2.0 중심선), 깊이 = 코어 0.6</td></tr><tr><td>직선부</td><td style="text-align:left">x 5.0 – 25.0 (길이 20.0), 12패스(단층) / 4패스(3층 코어)</td></tr><tr><td>패스 중심 y</td><td style="text-align:left">4.8 + 3.6·i (i = 0…11) → 4.8 … 44.4</td></tr><tr><td>피치 / 리브</td><td style="text-align:left">3.6 / 1.6</td></tr><tr><td>U턴</td><td style="text-align:left">폭 2.0, 짝수 패스 끝 x 23–25 / 홀수 패스 끝 x 5–7</td></tr><tr><td>경로 길이</td><td style="text-align:left">~280 mm (중심선 256)</td></tr><tr><td>솔더 랜드</td><td style="text-align:left">폭 1.0, 리브 중심선 y = 6.6 + 3.6·i (i = 0…10) + 외곽 프레임(안쪽 x 4.7/25.3, y 3.5/45.7), Top·Bottom 동일</td></tr><tr><td colspan="2" style="background:#e9eef6;font-weight:700;color:#1F3864">§ 커버 (FR-4 0.4, 2L, ×2 동일)</td></tr><tr><td>동박</td><td style="text-align:left">Cu 35 μm: Top = 안쪽면(히터+랜드), Bottom = 바깥면(패드), ENIG, 솔더마스크 없음</td></tr><tr><td>히터 밴드</td><td style="text-align:left">1.6 (채널 2.0 안쪽 각 0.2), 세그먼트 중심선 패스 y ± 0.7</td></tr><tr><td>히터 선폭 / 갭 / 피치</td><td style="text-align:left">0.20 / 0.20 / 0.40</td></tr><tr><td>히터 x 범위</td><td style="text-align:left">패스 0: 7.6 → 24.7 · 패스 1–10: 5.3 ↔ 24.7(U턴 코너 사각 포함) · 패스 11: 24.7 → 7.4 · U턴 연결부 [xc+0.3, xc+1.7]</td></tr><tr><td>히터 길이 / 저항</td><td style="text-align:left">1121 mm/면 · 5,603 sq · 8.5 Ω/면 (ρs 1.40 mΩ/sq + 0.6) · 전 면 직렬 16.9 Ω</td></tr><tr><td>리드 비아</td><td style="text-align:left">φ0.3 드릴 / 패드 0.7 · (5.4, 4.1) 시작 · (5.4, 45.1) 끝 · 리플로우 때 솔더 충전</td></tr><tr><td>바깥면 패드</td><td style="text-align:left">2.4 × 1.2 중심 (1.8, 4.8)·(1.8, 44.4), 인출선 0.5</td></tr><tr><td>포트 홀</td><td style="text-align:left">φ1.0 (6.4, 4.8) — 하부 커버 = 입구, 뒤집으면 (6.4, 44.4) = 노즐 인서트</td></tr><tr><td>센서 포트</td><td style="text-align:left">φ0.8 블라인드 깊이 0.3(바깥면에서), x 8·15·22 × y 8.4·24.6·40.8</td></tr><tr><td colspan="2" style="background:#e9eef6;font-weight:700;color:#1F3864">§ 중간판 (3층, FR-4 0.4, 4L, ×2 동일)</td></tr><tr><td>히터</td><td style="text-align:left">위·아래 면 동일 패턴(코어당 4패스, 355 mm/면 3.1 Ω), 비아 4개(시작 ±0.7·끝 ±0.7, 면별로 다른 비아)</td></tr><tr><td>매설 리드</td><td style="text-align:left">L2로 밀봉 링 아래 통과 → 좌측 탭 패드 (−4.3, 4.8)·(−4.3, 15.6)</td></tr><tr><td>층간 유체 비아</td><td style="text-align:left">φ1.2 (6.4, 15.6) — 뒤집으면 (6.4, 4.8)</td></tr><tr><td colspan="2" style="background:#e9eef6;font-weight:700;color:#1F3864">§ 노즐·유량</td></tr><tr><td>노즐</td><td style="text-align:left">목 φ0.30, 지상 ε≈1.4 정합 / 진공 ε 100 교체</td></tr><tr><td>설계 유량 / 압력</td><td style="text-align:left">5.4 mL/min (112 mg/s) · 챔버 4.0 bar abs · 히터 30 W @ 24 V</td></tr></table></div><h3>2.0b 층별 2D 도면 (치수 표기)</h3><div class="two"><figure><img src="/metacube/thruster/img/drw_core.png" alt="core"><figcaption>코어 — 관통 슬롯 + 양면 랜드</figcaption></figure><figure><img src="/metacube/thruster/img/drw_cover_outer.png" alt="cover outer"><figcaption>커버 바깥면 — 패드·인출선·센서 포트</figcaption></figure></div><figure><img src="/metacube/thruster/img/drw_cover_inner.png" alt="cover inner"><figcaption>커버 안쪽면 — 히터 ㄹ자 + 랜드 (확대 인셋에 선폭·갭·피치·밴드·여유)</figcaption></figure><div class="two"><figure><img src="/metacube/thruster/img/drw_stack.png" alt="stack"><figcaption>적층 단면 — 단층 1.67 / 3층 4.21 mm</figcaption></figure><figure><img src="/metacube/thruster/img/drw_midplate.png" alt="midplate"><figcaption>중간판(3층 전용) — 양면 히터·비아 4·매설 리드·탭·층간 유체 비아</figcaption></figure></div><h3>2.1 단층(1코어) 조립 — 1차 실험체</h3><iframe class="vf" data-src="/metacube/thruster/viewer/v1.html"></iframe><h3>2.2 3층(3코어 접기) 조립 — 2차</h3><iframe class="vf" data-src="/metacube/thruster/viewer/v3.html"></iframe><h3>2.3 커버 히터 단독 (도면용, 옆에 치수표)</h3><iframe class="vf" data-src="/metacube/thruster/viewer/vc.html"></iframe><h3>2.4 히터 치수</h3><figure><img src="/metacube/thruster/img/pcb_heater_zigzag_dims.png" alt="heater dims"><figcaption>Cu 35 μm 폭방향 ㄹ자: 선폭 0.20 / 갭 0.20 / 피치 0.40 · 세그먼트 1.6(밴드) · 채널 2.0 안쪽 0.2 여유 · 패스 0 시작 x 7.6 / 패스 11 끝 x 7.4 · U턴 코너 사각까지 연속 · 비아 (5.4, 4.1)·(5.4, 45.1) · 바깥면 패드 (1.8, 4.8)·(1.8, 44.4)</figcaption></figure><h3>2.5 EAGLE 도면 미리보기</h3><figure><img src="/metacube/thruster/img/eagle_v03_preview.png" alt="eagle"><figcaption>core_v03.brd(슬롯 = Milling 46 폭 2.0 중심선, 랜드 Top+Bottom) · cover_v03.brd(Top = 안쪽면 히터+랜드, Bottom = 바깥면 패드, 비아, 포트 φ1.0). 같은 커버 부품이 상·하 공용.</figcaption></figure></section><section class="tabpane" id="sec-heater"><h2>3. 히터 설계와 전압 → 전류·전력·온도 예측</h2><p class="sub">저항 모델: 면저항 1.40 mΩ/sq(벌크의 2.9배 — 팀 히터 #2 0.152×2720 mm 26.3 Ω와 CSTE 0.3×282.5 mm 2.51 Ω 공통 피팅) + 리드 0.6 Ω/면, TCR 0.393 %/K. 3D 전기-열(전압 구동, 요소별 ρ(T), Cooper 비등, 에칭 Cu 패턴)로 계산. 히터는 단층/3층 모두 <b>하나</b>(전 면 직렬, 총 ~2240 mm) → 운전점 동일.</p><figure><img src="/metacube/thruster/img/figZ_VIP_T.png" alt="V-I-P-T"><figcaption>전압 → 보드 발열 · 전류 · 최고 온도 (직렬, 파워서플라이 0~30 V). 유체 운전은 비등이 63~65 °C에 묶어 P ∝ V², 건식은 R(T)로 전류 포화.</figcaption></figure><div class="tw"><table><tr><th>조건</th><th>I [A]</th><th>P 보드 [W]</th><th>P 리드 [W]</th><th>R(T) [Ω]</th><th>T_max [°C]</th><th>밴드 평균</th><th>외판 센서 범위</th><th>바닥 과열도 [K]</th></tr><tr><td>유체 15 V</td><td>0.77</td><td>10.9</td><td>0.72</td><td>19.39</td><td>60.6</td><td>60.6</td><td>56.6–59.3</td><td>5.2</td></tr><tr><td>유체 20 V</td><td>1.03</td><td>19.3</td><td>1.27</td><td>19.47</td><td>62.0</td><td>61.9</td><td>57.5–60.5</td><td>6.5</td></tr><tr><td>유체 24 V</td><td>1.23</td><td>27.7</td><td>1.81</td><td>19.53</td><td>63.0</td><td>62.9</td><td>58.1–61.4</td><td>7.4</td></tr><tr><td>유체 27 V</td><td>1.38</td><td>35.0</td><td>2.28</td><td>19.58</td><td>63.7</td><td>63.6</td><td>58.5–62.0</td><td>8.0</td></tr><tr><td>유체 30 V</td><td>1.53</td><td>43.1</td><td>2.81</td><td>19.62</td><td>64.3</td><td>64.3</td><td>58.9–62.6</td><td>8.6</td></tr><tr><td>건식 6 V</td><td>0.31</td><td>1.8</td><td>0.12</td><td>19.08</td><td>57.5</td><td>55.4</td><td>52.4–55.1</td><td>—</td></tr><tr><td>건식 8 V</td><td>0.39</td><td>2.9</td><td>0.18</td><td>20.45</td><td>81.3</td><td>77.7</td><td>72.6–77.3</td><td>—</td></tr><tr><td>건식 10 V</td><td>0.45</td><td>4.3</td><td>0.25</td><td>22.02</td><td>108.5</td><td>103.2</td><td>95.5–102.7</td><td>—</td></tr><tr><td>건식 12 V</td><td>0.51</td><td>5.8</td><td>0.31</td><td>23.73</td><td>138.3</td><td>131.0</td><td>120.5–130.5</td><td>—</td></tr></table></div><div class="note ok"><b>운전 규칙</b> P_필요 ≈ 4.75 W × Q[mL/min] + 1.5 W → 5.4 mL/min = 24 V(28 W) · 8 mL/min = 28 V · 9 mL/min = 30 V. 건식 통전은 10 V(4.3 W, 108 °C) 이하. 30 V(43 W)는 유량을 같이 올릴 때만.</div><div class="note"><b>가장 큰 불확실성</b> = 면저항(×3 범위). 커버 보드 4장 먼저 발주 → 위트니스 쿠폰 4선 측정(ρs·R_fix·TCR) → 예측표 갱신 → 풀스택 발주 순서 권장.</div></section><section class="tabpane" id="sec-fea"><h2>4. 3D 열해석 (CalculiX)</h2><h3>4.1 판 모델 TH2 — 단층 30×49×1.54, 30 W, 에칭 Cu 패턴</h3><div class="cards"><div class="card"><b>T_max</b><div class="n">63.3 °C</div><p>히터 밴드. Cu 상/하 대칭(0.00 K). TH1 3코어 65.1보다 낮음.</p></div><div class="card"><b>열배분</b><div class="n">46 / 46 / 7 %</div><p>바닥 / 천장 / 리브 측벽. 벽 과열도 바닥=천장 7.6 K, 측벽 3.1 K.</p></div><div class="card"><b>외피 손실</b><div class="n">1.2 W</div><p>96 % 폐합. 외판 센서 9점 59.6~62.3 °C(채널 위 vs 리브 위 ~2.5 K).</p></div><div class="card"><b>콜드스타트</b><div class="n">2.9–7.8 s</div><p>정상 ±2 K 진입(중간/입구/출구). 건식 6 W: 239/142 °C(h 10/20) → 36/20 K/W.</p></div></div><div class="two"><figure><img src="/metacube/thruster/img/figS1_core_midplane_A.png" alt="S1"><figcaption>코어 중간면 / 하부 Cu 히터면 온도 (S_A 30 W)</figcaption></figure><figure><img src="/metacube/thruster/img/figS1b_cu_pattern_compare.png" alt="S1b"><figcaption>연속 Cu 가정 vs 에칭 패턴 — 에칭 패턴이 정본(밴드 > 리브 > 여백)</figcaption></figure></div><div class="two"><figure><img src="/metacube/thruster/img/figS3_dTwall_path.png" alt="S3"><figcaption>벽 과열도 vs 채널 경로 — 경로 전체 평탄, U턴 봉우리 없음(히터가 채널 안쪽)</figcaption></figure><figure><img src="/metacube/thruster/img/figS4_transient_D.png" alt="S4"><figcaption>콜드스타트 (22 °C → 30 W ON)</figcaption></figure></div><h3>4.2 단위셀 TH3 — 실제 ㄹ자 트레이스 0.20/0.20 해상 (격자 0.05 mm)</h3><figure><img src="/metacube/thruster/img/figU0_where_is_what_temperature.png" alt="U0"><figcaption><b>어디가 몇 도인가</b> — 유체 55.0(포화) → 히터 트레이스 63.4(과열도 8.4 K, 구리 안 등온 0.07 K) → 트레이스 사이 FR-4 갭 61.0 → 커버 바깥면(센서) 60.4 → 리브 옆벽 57.9. 열 배분: 트레이스 상면 53 / 옆면 19 / FR-4 갭 26 / 리브 2 %. 스미어 밴드 모델 대비 +0.2~0.7 K → 핫스팟 없음, 예측표 유효.</figcaption></figure><div class="two"><figure><img src="/metacube/thruster/img/figU1_cu_plane_topview.png" alt="U1"><figcaption>히터면 상면도 — 트레이스/갭 온도 (U1 정격 · U2 2배 · U3 0.15/0.15)</figcaption></figure><figure><img src="/metacube/thruster/img/figU3_superheat_split.png" alt="U3"><figcaption>과열도와 열 배분</figcaption></figure></div><div class="note">한계(정직하게): Cooper 상관식 ±2~4 K, 유체 55 °C 등온 싱크(비등 구간에만 맞음 — 출구 증기 구간은 아래 5절), 축방향 변화 없음, 히터 균일 발열(링크 전류 집중 미반영).</div></section><section class="tabpane" id="sec-boil"><h2>5. 채널을 따라 어디서 끓고 어디서 다 기체가 되나 (정상 · 과도)</h2><p class="sub">1D 축방향 2상 모델: 벽 노드별 열용량 + 준정상 유체 엔탈피 행진, 액체 층류 → Cooper 핵비등 → 부분건조 → 증기 Dittus-Boelter(≈470 W/m²K), 노즐 압력 결합. <b>건도 x</b> = 유체 질량 중 증기 비율(0 액체 → 1 완전 기화).</p><figure><img src="/metacube/thruster/img/pcb_channel_serpentine_steady.png" alt="serpentine"><figcaption>정상 30 W — 실제 12패스 채널 위 벽 온도 · 유체 온도 · 건도. 비등 시작 입구 직후(과냉 비등), 유체 포화 52 mm, 완전 기화 235 mm(84 %), 이후 과열 증기.</figcaption></figure><figure><img src="/metacube/thruster/img/pcb_channel_serpentine.gif" alt="gif"><figcaption>콜드스타트 애니메이션 (0 → 25 s): 압력 1.2 → 4.2 bar, 출구 건도 0.4 → 1(6.5 s), 완전 기화점이 출구에서 235 mm로 후퇴.</figcaption></figure><div class="two"><figure><img src="/metacube/thruster/img/pcb_channel_boiling_steady.png" alt="steady"><figcaption>경로 그래프: 벽/유체 온도 · 건도 · 열유속</figcaption></figure><figure><img src="/metacube/thruster/img/pcb_channel_boiling_transient.png" alt="transient"><figcaption>과도: 전선 이동·압력 · 시공간 지도 · 출구 상태</figcaption></figure></div><h3>전력·히터 분포 비교 (정상)</h3><figure><img src="/metacube/thruster/img/pcb_channel_boiling_compare.png" alt="cmp"></figure><div class="tw"><table><tr><th>케이스</th><th>P0 [bar]</th><th>T_sat</th><th>비등 시작 [mm]</th><th>완전 기화 [mm]</th><th>출구 과열도 [K]</th><th>출구 T [°C]</th><th>벽 최고 [°C]</th></tr><tr><td>30 W 균일</td><td>4.18</td><td>56.5</td><td>1</td><td>235</td><td>39.8</td><td>96.4</td><td>137.5</td></tr><tr><td>27.5 W 균일 (요구량 정합)</td><td>4.06</td><td>55.5</td><td>1</td><td>255</td><td>19.7</td><td>75.2</td><td>113.3</td></tr><tr><td>30 W, 출구 45 mm 절반 밀도</td><td>4.18</td><td>56.5</td><td>1</td><td>215</td><td>39.5</td><td>96.0</td><td>117.3</td></tr></table></div><div class="note"><b>설계 시사점</b> — 균일 히터 하나는 비등 구간(0~235 mm)에선 벽 63 °C로 완벽하지만, 완전 기화 이후 마지막 30~45 mm는 벽 110~140 °C(증기 h가 비등의 1/8). 선택: ① 전압을 요구량에 맞춰 27~28 W 운전(1차 권장, 113 °C) ② 출구 45 mm ㄹ자 피치 절반 밀도(117 °C) ③ 둘 다(~95 °C). 실측에서 노즐 쪽 외판 센서가 30~50 K 높게 나오는 것이 "완전 기화" 지표.</div><figure><img src="/metacube/thruster/img/pcb_channel_boiling_snapshots.png" alt="snapshots"><figcaption>스냅샷 t = 0.5 … 25 s</figcaption></figure></section><section class="tabpane" id="sec-files"><h2>6. EAGLE 도면·스크립트</h2><div class="dl"><a href="/metacube/thruster/eagle/core_v03.brd" download>core_v03.brd (8 KB)</a><a href="/metacube/thruster/eagle/cover_v03.brd" download>cover_v03.brd (89 KB)</a><a href="/metacube/thruster/eagle/heater_zigzag.scr" download>heater_zigzag.scr (22 KB)</a><a href="/metacube/thruster/eagle/heater_zigzag_points.csv" download>heater_zigzag_points.csv (20 KB)</a><a href="/metacube/thruster/eagle/README.md" download>README.md (4 KB)</a></div><p class="sub">core_v03.brd(코어 ×1) · cover_v03.brd(커버 ×2 동일 부품) · heater_zigzag.scr(EAGLE에서 SCRIPT 실행 → 히터·비아·패드·외형 자동 작도) · 좌표 CSV. XML v9.6.2 헤더(7.x는 version만 수정). 주문 규격: 솔더마스크 없음, ENIG, 1 oz, 코어 0.6T/커버 0.4T, 슬롯 라우팅 ±0.2, NPTH ±0.05.</p></section><section class="tabpane" id="sec-risk"><h2>7. 미결·리스크 (발주 전 확인)</h2><ul><li>🔴 <b>면저항 1.40 mΩ/sq</b> — 팀 히터 2개 저항값에서 피팅(물리 설명 없음, ×3 범위). 위트니스 쿠폰 4선 측정으로 확정 후 선폭 최종화.</li><li>🔴 <b>히터 리드 밀봉 관통</b> — 밀봉 안쪽 비아 + 리플로우 솔더 충전은 가안. 팀의 No.5/6 방식 확인 또는 커버 보드로 누설 시험 먼저.</li><li>🔴 <b>출구 증기 구간 벽 온도 110~140 °C</b> — 5절. 운전 전력 정합 또는 피치 그레이딩으로 관리.</li><li>🟡 3층 중간판은 4층 보드(양면 히터 + 매설 리드) 필요 — 2층으로 하면 밀봉 링을 같은 면에서 가로질러 누설. 1차 단층에서 커버 비아 방식부터 검증.</li><li>🟡 Cooper ±2~4 K, 증기 h ±30 %(벽 최고 ±15 K), 건식 h_out 10↔20, R_fix 0.6 가정, 히터 #2 실측(TCR 역산 84 vs 표면 58 °C) 미해결 → 건식 V–I–T 캘리브레이션 실험으로 확정.</li><li>🟢 채널 치수(공정 제약)·길이 여유·설계점·업체 규격 적합성·단층 대칭 열배분·콜드스타트 수 초·추진제 선택 근거.</li></ul><h2>순서</h2><ol style="font-size:13.5px"><li>커버 보드 4장(히터+쿠폰+비아) 발주 → 4선 저항·건식 V–I–T·비아 충전 누설 시험</li><li>ρs·K/W 확정, 예측표 갱신, 출구 증기 구간 3D 결합</li><li>코어 포함 풀스택 발주 → 리플로우 조립 → 4 bar g 내압 → 유체 파라메트릭(유량 × 전압 → 출구 상태, η_th, 압력–유량, 자세, 콜드스타트)</li><li>3층: 같은 점 재현 + 자세 3방향 + 콜드스타트 비교</li></ol></section><div id="mccmt" data-page="thruster"></div><script src="/metacube/mc-comments.js"></script><script>function showTab(k){document.querySelectorAll(".tabpane").forEach(function(e){e.classList.toggle("on",e.id==="sec-"+k)});document.querySelectorAll(".tabbar button").forEach(function(b){b.classList.toggle("on",b.id==="tb-"+k)});document.querySelectorAll("#sec-"+k+" iframe[data-src]").forEach(function(f){if(!f.src){f.src=f.getAttribute("data-src")}});if(history.replaceState){history.replaceState(null,"","#"+k)}window.scrollTo(0,0)}(function(){var k=(location.hash||"#ov").slice(1);if(!document.getElementById("sec-"+k)){k="ov"}showTab(k);window.addEventListener("hashchange",function(){var h=location.hash.slice(1);if(document.getElementById("sec-"+h))showTab(h)})})();</script><p class="sub" style="margin-top:30px">코드·데이터 정본: coldgas-thruster/design (propellant_selection.py · pcb_stack_viewer.py · pcb_cover_heater_viewer.py · pcb_heater_zigzag.py · pcb_channel_boiling_map.py · eagle/) · fea/pcb (pcb_lib_single.py · pcb_electro.py · pcb_unitcell.py · PCB_TH2/TH3 보고서). 페이지 생성기 design/site_thruster_page.py</p></div></body></html>
